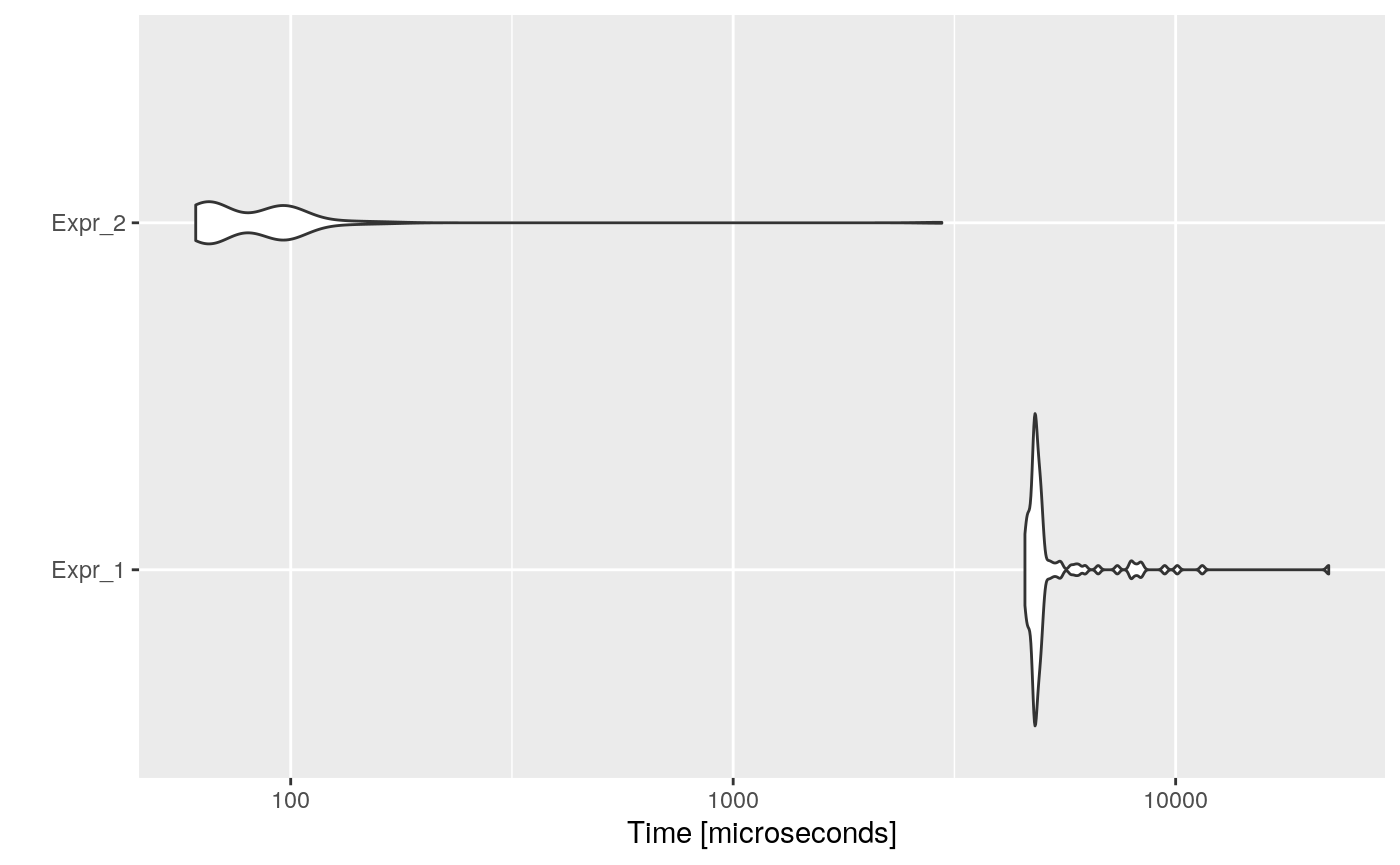
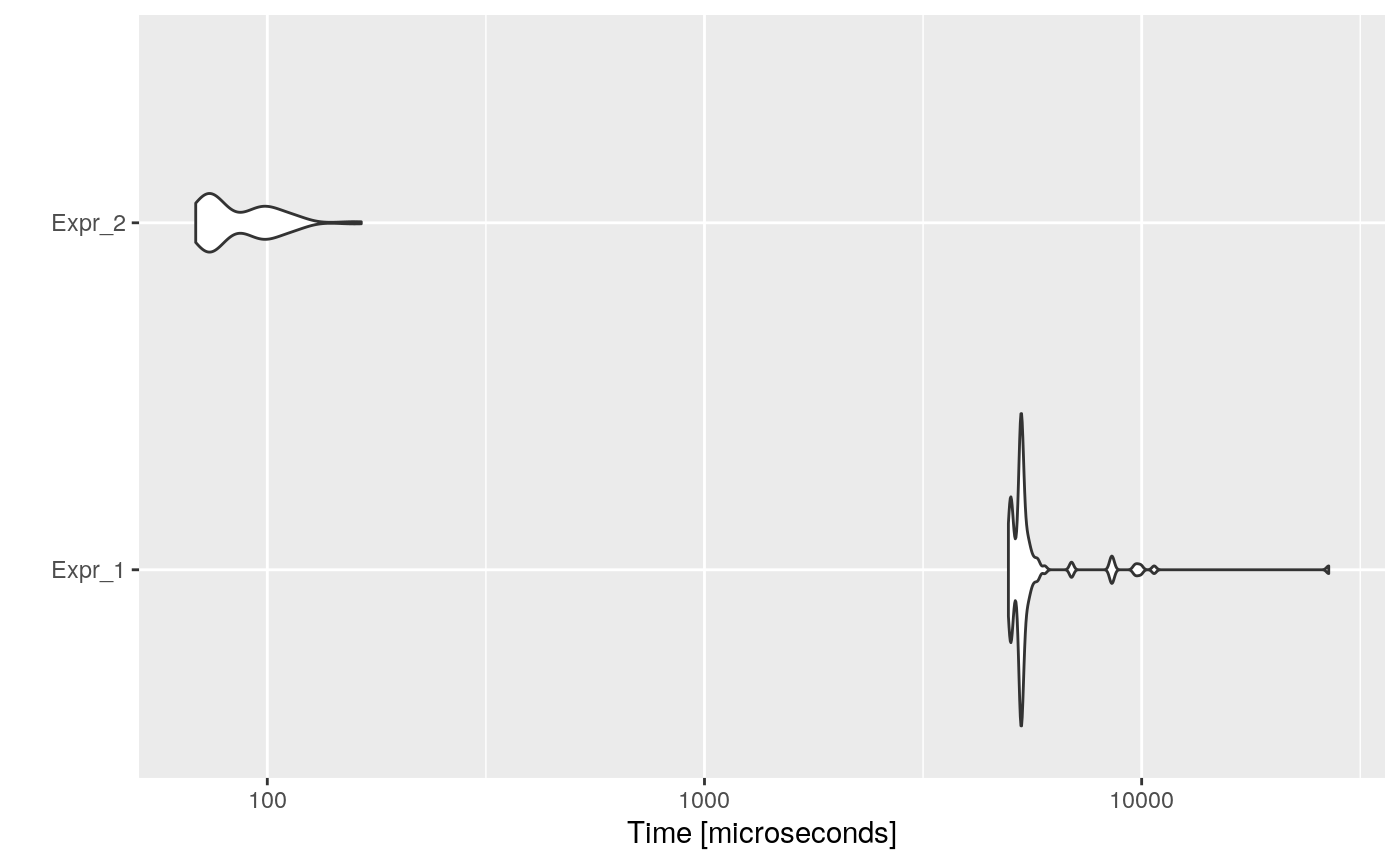
Rebuilding site

diff --git a/docs/articles/opt-dead-code.html b/docs/articles/opt-dead-code.html
@@ -129,7 +129,7 @@
 <div id="background" class="section level2">
 <h2 class="hasAnchor">
 <a href="#background" class="anchor"></a>Background</h2>
-<p>Dead Code Elimination is an optimization to remove code which does not affect the program results. You might wonder why you would write this type of source code, but it can easily creep into large, long-lived programs even at the source code level. Removing such code has several benefits: it shrinks program size, an important consideration in some contexts, and it allows the running program to avoid executing irrelevant operations, which reduces its running time. It can also enable further optimizations by simplifying program structure.</p>
+<p>Dead Code Elimination is an optimization that removes code which does not affect the program results. You might wonder why someone would write this type of source code, but it can easily creep into large, long-lived programs even at the source code level. Removing such code has several benefits: it shrinks program size and it allows the running program to avoid executing irrelevant operations, which reduces its running time. It can also enable further optimizations by simplifying program structure.</p>
 <p>For example, consider the following code:</p>
 <div class="sourceCode" id="cb1"><pre class="sourceCode r"><code class="sourceCode r"><a class="sourceLine" id="cb1-1" data-line-number="1">foo &lt;-<span class="st"> </span><span class="cf">function</span>() {</a>
 <a class="sourceLine" id="cb1-2" data-line-number="2">  a &lt;-<span class="st"> </span><span class="dv">24</span></a>
@@ -167,7 +167,7 @@
 <div id="example" class="section level2">
 <h2 class="hasAnchor">
 <a href="#example" class="anchor"></a>Example</h2>
-<p>Consider the following (useless) example:</p>
+<p>Consider the following example:</p>
 <div class="sourceCode" id="cb5"><pre class="sourceCode r"><code class="sourceCode r"><a class="sourceLine" id="cb5-1" data-line-number="1">code &lt;-<span class="st"> </span><span class="kw"><a href="https://www.rdocumentation.org/packages/base/topics/paste">paste</a></span>(</a>
 <a class="sourceLine" id="cb5-2" data-line-number="2">  <span class="st">"i &lt;- 0"</span>,</a>
 <a class="sourceLine" id="cb5-3" data-line-number="3">  <span class="st">"n &lt;- 1000"</span>,</a>
@@ -207,8 +207,8 @@
 <a class="sourceLine" id="cb9-6" data-line-number="6"><span class="kw">autoplot</span>(bmark_res)</a></code></pre></div>
 <p><img src="opt-dead-code_files/figure-html/unnamed-chunk-8-1.png" width="700"></p>
 <div class="sourceCode" id="cb10"><pre class="sourceCode r"><code class="sourceCode r"><a class="sourceLine" id="cb10-1" data-line-number="1"><span class="kw">speed_up</span>(bmark_res)</a></code></pre></div>
-<pre><code>##            Min.  1st Qu.   Median    Mean  3rd Qu.     Max.
-## Expr_2 78.27302 75.24146 52.30595 64.7211 49.32903 266.2569</code></pre>
+<pre><code>##            Min.  1st Qu.   Median     Mean  3rd Qu.     Max.
+## Expr_2 80.63368 73.06502 62.63779 63.95352 52.02779 178.2896</code></pre>
 </div>
 <div id="implementation" class="section level2">
 <h2 class="hasAnchor">
@@ -230,33 +230,6 @@
 </ul>
 </div>
 </div>
-<div id="to-do" class="section level2">
-<h2 class="hasAnchor">
-<a href="#to-do" class="anchor"></a>To-Do</h2>
-<ul>
-<li>
-<p>Remove not assigned expressions?</p>
-<p>When coding, for debugging, sometimes instead of using <code>print</code> or <code>cat</code> we just write the expression. This causes that we get code as for example:</p>
-<div class="sourceCode" id="cb12"><pre class="sourceCode r"><code class="sourceCode r"><a class="sourceLine" id="cb12-1" data-line-number="1">foo &lt;-<span class="st"> </span><span class="cf">function</span>(x) {</a>
-<a class="sourceLine" id="cb12-2" data-line-number="2">  x <span class="op">!=</span><span class="st"> </span><span class="dv">0</span></a>
-<a class="sourceLine" id="cb12-3" data-line-number="3">  <span class="kw"><a href="https://www.rdocumentation.org/packages/base/topics/function">return</a></span>(<span class="dv">100</span> <span class="op">/</span><span class="st"> </span>x)</a>
-<a class="sourceLine" id="cb12-4" data-line-number="4">}</a></code></pre></div>
-<p>Here, the expression <code>x != 0</code> would be evaluated each time we call the <code>foo</code> function, but would not have any effect as it is not assigned, nor printed. And thus, could be removed.</p>
-<p>However, removing expressions could result in behaviour missmatches, for instance, the following two codes:</p>
-<div class="sourceCode" id="cb13"><pre class="sourceCode r"><code class="sourceCode r"><a class="sourceLine" id="cb13-1" data-line-number="1">foo &lt;-<span class="st"> </span><span class="cf">function</span>() {</a>
-<a class="sourceLine" id="cb13-2" data-line-number="2">  x <span class="op">!=</span><span class="st"> </span><span class="dv">0</span></a>
-<a class="sourceLine" id="cb13-3" data-line-number="3">  <span class="kw"><a href="https://www.rdocumentation.org/packages/base/topics/function">return</a></span>(<span class="dv">100</span>)</a>
-<a class="sourceLine" id="cb13-4" data-line-number="4">}</a>
-<a class="sourceLine" id="cb13-5" data-line-number="5">bar &lt;-<span class="st"> </span><span class="cf">function</span>() {</a>
-<a class="sourceLine" id="cb13-6" data-line-number="6">  <span class="kw"><a href="https://www.rdocumentation.org/packages/base/topics/function">return</a></span>(<span class="dv">100</span>)</a>
-<a class="sourceLine" id="cb13-7" data-line-number="7">}</a>
-<a class="sourceLine" id="cb13-8" data-line-number="8"></a>
-<a class="sourceLine" id="cb13-9" data-line-number="9"><span class="kw">foo</span>()</a>
-<a class="sourceLine" id="cb13-10" data-line-number="10"><span class="kw"><a href="https://www.rdocumentation.org/packages/grDevices/topics/plotmath">bar</a></span>()</a></code></pre></div>
-<p>The <code>foo</code> call would give an error, while the <code>bar</code> call would not.</p>
-</li>
-</ul>
-</div>
 </div>
   </div>
 
@@ -270,7 +243,6 @@
 <li><a href="#background">Background</a></li>
       <li><a href="#example">Example</a></li>
       <li><a href="#implementation">Implementation</a></li>
-      <li><a href="#to-do">To-Do</a></li>
       </ul>
 </li>
       </ul>

diff --git a/docs/articles/opt-constant-folding.html b/docs/articles/opt-constant-folding.html
@@ -173,8 +173,8 @@
 <a class="sourceLine" id="cb5-6" data-line-number="6"><span class="kw">autoplot</span>(bmark_res)</a></code></pre></div>
 <p><img src="opt-constant-folding_files/figure-html/unnamed-chunk-4-1.png" width="700"></p>
 <div class="sourceCode" id="cb6"><pre class="sourceCode r"><code class="sourceCode r"><a class="sourceLine" id="cb6-1" data-line-number="1"><span class="kw">speed_up</span>(bmark_res)</a></code></pre></div>
-<pre><code>##            Min.  1st Qu.   Median     Mean  3rd Qu.     Max.
-## Expr_2 30.53172 30.10063 26.71861 29.78465 26.56844 86.02347</code></pre>
+<pre><code>##            Min.  1st Qu.   Median    Mean  3rd Qu.     Max.
+## Expr_2 30.63161 29.56368 26.59162 29.8663 26.97729 89.35771</code></pre>
 </div>
 <div id="implementation" class="section level2">
 <h2 class="hasAnchor">

diff --git a/docs/articles/opt-common-subexpr.html b/docs/articles/opt-common-subexpr.html
@@ -177,8 +177,8 @@
 <a class="sourceLine" id="cb7-6" data-line-number="6"><span class="kw">autoplot</span>(bmark_res)</a></code></pre></div>
 <p><img src="opt-common-subexpr_files/figure-html/unnamed-chunk-6-1.png" width="700"></p>
 <div class="sourceCode" id="cb8"><pre class="sourceCode r"><code class="sourceCode r"><a class="sourceLine" id="cb8-1" data-line-number="1"><span class="kw">speed_up</span>(bmark_res)</a></code></pre></div>
-<pre><code>##            Min.  1st Qu.   Median     Mean  3rd Qu.   Max.
-## Expr_2 74.82364 73.85586 62.87553 48.54417 51.41588 7.4891</code></pre>
+<pre><code>##            Min.  1st Qu.   Median     Mean  3rd Qu.     Max.
+## Expr_2 72.26624 71.23343 67.83335 66.85934 54.79446 163.3045</code></pre>
 </div>
 <div id="implementation" class="section level2">
 <h2 class="hasAnchor">

diff --git a/docs/articles/opt-loop-invariant.html b/docs/articles/opt-loop-invariant.html
@@ -195,8 +195,8 @@
 <a class="sourceLine" id="cb6-6" data-line-number="6"><span class="kw">autoplot</span>(bmark_res)</a></code></pre></div>
 <p><img src="opt-loop-invariant_files/figure-html/unnamed-chunk-5-1.png" width="700"></p>
 <div class="sourceCode" id="cb7"><pre class="sourceCode r"><code class="sourceCode r"><a class="sourceLine" id="cb7-1" data-line-number="1"><span class="kw">speed_up</span>(bmark_res)</a></code></pre></div>
-<pre><code>##           Min.  1st Qu.   Median     Mean  3rd Qu.     Max.
-## Expr_2 62.9916 61.36811 55.57528 57.27548 47.45997 116.0585</code></pre>
+<pre><code>##            Min.  1st Qu.  Median     Mean  3rd Qu.     Max.
+## Expr_2 61.34491 59.89496 50.3602 56.80157 49.31016 128.8052</code></pre>
 </div>
 <div id="implementation" class="section level2">
 <h2 class="hasAnchor">

diff --git a/docs/articles/opt-constant-propagation.html b/docs/articles/opt-constant-propagation.html
@@ -191,7 +191,7 @@
 <p><img src="opt-constant-propagation_files/figure-html/unnamed-chunk-6-1.png" width="700"></p>
 <div class="sourceCode" id="cb8"><pre class="sourceCode r"><code class="sourceCode r"><a class="sourceLine" id="cb8-1" data-line-number="1"><span class="kw">speed_up</span>(bmark_res)</a></code></pre></div>
 <pre><code>##            Min.  1st Qu.   Median     Mean  3rd Qu.     Max.
-## Expr_2 29.15235 28.84323 25.94892 29.11932 25.82423 86.12681</code></pre>
+## Expr_2 28.16727 27.28731 26.23586 28.23171 25.16759 79.62455</code></pre>
 </div>
 <div id="implementation" class="section level2">
 <h2 class="hasAnchor">

diff --git a/docs/articles/opt-dead-store.html b/docs/articles/opt-dead-store.html
@@ -219,7 +219,7 @@
 <p><img src="opt-dead-store_files/figure-html/unnamed-chunk-8-1.png" width="700"></p>
 <div class="sourceCode" id="cb10"><pre class="sourceCode r"><code class="sourceCode r"><a class="sourceLine" id="cb10-1" data-line-number="1"><span class="kw">speed_up</span>(bmark_res)</a></code></pre></div>
 <pre><code>##            Min.  1st Qu.   Median     Mean  3rd Qu.     Max.
-## Expr_2 20.27657 20.08277 19.76255 22.23037 19.06879 111.6459</code></pre>
+## Expr_2 20.44725 20.70031 20.83937 23.40098 20.44568 114.3183</code></pre>
 </div>
 <div id="implementation" class="section level2">
 <h2 class="hasAnchor">

diff --git a/docs/articles/opt-dead-expr.html b/docs/articles/opt-dead-expr.html
@@ -194,7 +194,7 @@
 <p><img src="opt-dead-expr_files/figure-html/unnamed-chunk-5-1.png" width="700"></p>
 <div class="sourceCode" id="cb7"><pre class="sourceCode r"><code class="sourceCode r"><a class="sourceLine" id="cb7-1" data-line-number="1"><span class="kw">speed_up</span>(bmark_res)</a></code></pre></div>
 <pre><code>##            Min.  1st Qu.   Median     Mean  3rd Qu.     Max.
-## Expr_2 14.04568 14.28966 13.91914 15.96863 13.00936 133.9658</code></pre>
+## Expr_2 14.53094 14.26726 14.08607 16.61783 14.00407 156.1261</code></pre>
 </div>
 <div id="implementation" class="section level2">
 <h2 class="hasAnchor">
